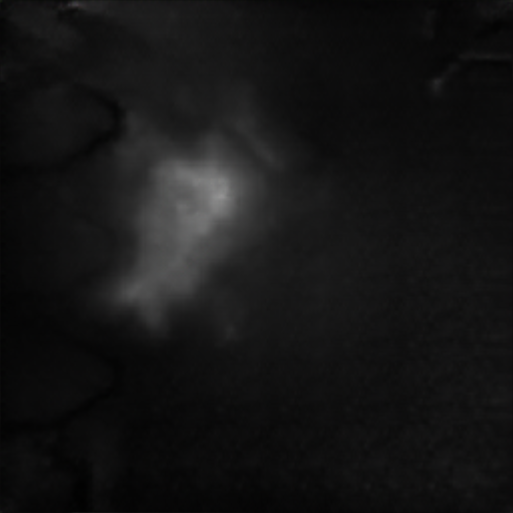
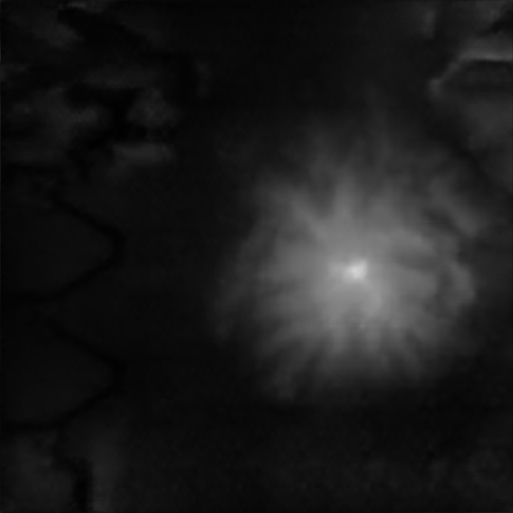
terrain shape pending

diff --git a/TerrainVR/Assets/Script/VRPlayer.cs b/TerrainVR/Assets/Script/VRPlayer.cs
@@ -55,15 +55,22 @@ public class VRPlayer : MonoBehaviour
         Vector3 position, derivative;
         float offset, brushSize;
 
+        List<Vector3> derivatives = new List<Vector3>();
+
+        for (int i = 0; i < s.GetComponent<LineRenderer>().positionCount; i++)
+        {
+            if (i == 0) derivative = s.GetPosition(i + 1) - s.GetPosition(i);
+            else if (i == s.GetComponent<LineRenderer>().positionCount - 1) derivative = s.GetPosition(i) - s.GetPosition(i - 1);
+            else derivative = s.GetPosition(i + 1) - s.GetPosition(i - 1);
+
+            derivatives.Add(derivative.normalized);
+        }
+
         if (s.filled)
         {
             for (int i = 0; i < s.GetComponent<LineRenderer>().positionCount; i++)
             {
                 position = s.GetComponent<Stroke>().GetPosition(i);
-
-                if (i == 0) derivative = s.GetPosition(i + 1) - s.GetPosition(i);
-                else if (i == s.GetComponent<LineRenderer>().positionCount - 1) derivative = s.GetPosition(i) - s.GetPosition(i - 1);
-                else derivative = s.GetPosition(i + 1) - s.GetPosition(i - 1);
 
                 offset = position.y - terrainTool._targetTerrain.transform.position.y;
                 brushSize = Mathf.Abs(offset - terrainTool.terrainOffset) * 2f;
@@ -81,30 +88,22 @@ public class VRPlayer : MonoBehaviour
         {
             position = s.GetPosition(i);
 
-            if (i == 0) derivative = s.GetPosition(i + 1) - s.GetPosition(i);
-            else if (i == s.GetComponent<LineRenderer>().positionCount - 1) derivative = s.GetPosition(i) - s.GetPosition(i - 1);
-            else derivative = s.GetPosition(i + 1) - s.GetPosition(i - 1);
-
             offset = position.y - terrainTool._targetTerrain.transform.position.y;
             brushSize = Mathf.Abs(offset - terrainTool.terrainOffset) * 2f;
 
             if (s.filled)
             {
-                terrainTool.RaiseTerrain(new Vector3(position.x,
-                                                     terrainTool._targetTerrain.transform.position.y,
-                                                     position.z),
-                                                     Mathf.Abs(offset) / 2f, brushSize / 2f,
-                                                     Mathf.Max(s.GetLeftBrushSize(), s.GetRightBrushSize()) / 2f,
-                                                     Mathf.Max(s.GetLeftBrushSize(), s.GetRightBrushSize()) / 2f,
-                                                     derivative);
+                terrainTool.RaiseTerrain(position,
+                                         Mathf.Abs(offset) / 2f, brushSize / 2f,
+                                         Mathf.Max(s.GetLeftBrushSize(), s.GetRightBrushSize()) / 2f,
+                                         Mathf.Max(s.GetLeftBrushSize(), s.GetRightBrushSize()) / 2f,
+                                         derivatives[i], s.GetPosition(0), s.GetPosition(s.GetPositionCount() - 1));
             }
             else
             {
-                terrainTool.RaiseTerrain(new Vector3(position.x,
-                                                     terrainTool._targetTerrain.transform.position.y,
-                                                     position.z),
-                                                     Mathf.Abs(offset), brushSize, s.GetLeftBrushSize(), s.GetRightBrushSize(),
-                                                     derivative);
+                terrainTool.RaiseTerrain(position,
+                                         Mathf.Abs(offset), brushSize, s.GetLeftBrushSize(), s.GetRightBrushSize(),
+                                         derivatives[i], s.GetPosition(0), s.GetPosition(s.GetPositionCount() - 1));
             }
         }
 
@@ -115,47 +114,35 @@ public class VRPlayer : MonoBehaviour
             if (s.GetPosition(i).y > maxHeight) maxHeight = s.GetPosition(i).y;
         }
 
-        Debug.Log(maxHeight);
-
         for (int i = 0; i < s.GetComponent<LineRenderer>().positionCount; i++)
         {
             position = s.GetPosition(i);
-
-            if (i == 0) derivative = s.GetPosition(i + 1) - s.GetPosition(i);
-            else if (i == s.GetComponent<LineRenderer>().positionCount - 1) derivative = s.GetPosition(i) - s.GetPosition(i - 1);
-            else derivative = s.GetPosition(i + 1) - s.GetPosition(i - 1);
-            derivative = Vector3.Normalize(derivative);
 
             offset = position.y - terrainTool._targetTerrain.transform.position.y;
             brushSize = Mathf.Abs(offset - terrainTool.terrainOffset) * 2f;
 
             if (s.filled)
             {
-                terrainTool.PaintStroke(new Vector3(position.x,
-                                                    terrainTool._targetTerrain.transform.position.y,
-                                                    position.z),
-                                                    brushSize, s.GetLeftBrushSize(), s.GetRightBrushSize(),
-                                                    0.6f, 6);
+                terrainTool.PaintStroke(position,
+                                        brushSize, s.GetLeftBrushSize(), s.GetRightBrushSize(),
+                                        0.6f, 6);
             }
             else
             {
-                if (Mathf.Abs(derivative.normalized.y) < 0.15f 
+                if (Mathf.Abs(derivatives[i].y) < 0.2f 
                     && (position.y - terrainTool._targetTerrain.transform.position.y) / (maxHeight - terrainTool._targetTerrain.transform.position.y) > 0.3f)
                 {
-                    terrainTool.PaintStroke(new Vector3(position.x,
-                                                        terrainTool._targetTerrain.transform.position.y,
-                                                        position.z),
-                                                        brushSize, s.GetLeftBrushSize(), s.GetRightBrushSize(),
-                                                        1f, 2);
+                    terrainTool.PaintStroke(position,
+                                            brushSize, s.GetLeftBrushSize(), s.GetRightBrushSize(),
+                                            1f, 2);
                 }
-                else if (Mathf.Abs(derivative.normalized.y) > 0.8f
-                         && (position.y - terrainTool._targetTerrain.transform.position.y) / (maxHeight - terrainTool._targetTerrain.transform.position.y) > 0.3f)
+
+                if (Mathf.Abs(derivatives[i].y) > 0.9f
+                    && (position.y - terrainTool._targetTerrain.transform.position.y) / (maxHeight - terrainTool._targetTerrain.transform.position.y) > 0.3f)
                 {
-                    terrainTool.PaintStroke(new Vector3(position.x,
-                                                        terrainTool._targetTerrain.transform.position.y,
-                                                        position.z),
-                                                        brushSize, s.GetLeftBrushSize(), s.GetRightBrushSize(),
-                                                        0.6f, 2);
+                    terrainTool.PaintStroke(position,
+                                            brushSize, s.GetLeftBrushSize(), s.GetRightBrushSize(),
+                                            0.6f, 2);
                 }
 
                 if (s.GetLeftBrushSize() < 0.5f)
@@ -163,12 +150,10 @@ public class VRPlayer : MonoBehaviour
                     float middlePoint = (position.y - terrainTool._targetTerrain.transform.position.y) * s.GetLeftBrushSize() / 2f;
                     if (middlePoint > 3f)
                     {
-                        Vector3 cliff = position + (Quaternion.AngleAxis(-90, Vector3.up) * derivative.normalized) * middlePoint;
-                        terrainTool.PaintStroke(new Vector3(cliff.x,
-                                                            terrainTool._targetTerrain.transform.position.y,
-                                                            cliff.z),
-                                                            brushSize, s.GetLeftBrushSize(), s.GetRightBrushSize(),
-                                                            0.6f, (int)(middlePoint - 3f));
+                        Vector3 cliff = position + (Quaternion.AngleAxis(-90, Vector3.up) * derivatives[i]) * middlePoint;
+                        terrainTool.PaintStroke(cliff,
+                                                brushSize, s.GetLeftBrushSize(), s.GetRightBrushSize(),
+                                                0.6f, (int)(middlePoint - 3f));
                     }
                 }
 
@@ -177,12 +162,10 @@ public class VRPlayer : MonoBehaviour
                     float middlePoint = (position.y - terrainTool._targetTerrain.transform.position.y) * s.GetRightBrushSize() / 2f;
                     if (middlePoint > 3f)
                     {
-                        Vector3 cliff = position + (Quaternion.AngleAxis(90, Vector3.up) * derivative.normalized) * middlePoint;
-                        terrainTool.PaintStroke(new Vector3(cliff.x,
-                                                            terrainTool._targetTerrain.transform.position.y,
-                                                            cliff.z),
-                                                            brushSize, s.GetLeftBrushSize(), s.GetRightBrushSize(),
-                                                            0.6f, (int)(middlePoint - 3f));
+                        Vector3 cliff = position + (Quaternion.AngleAxis(90, Vector3.up) * derivatives[i]) * middlePoint;
+                        terrainTool.PaintStroke(cliff,
+                                                brushSize, s.GetLeftBrushSize(), s.GetRightBrushSize(),
+                                                0.6f, (int)(middlePoint - 3f));
                     }
                 }
             }

diff --git a/TerrainVR/Assets/Script/TerrainTool.cs b/TerrainVR/Assets/Script/TerrainTool.cs
@@ -70,7 +70,7 @@ public sealed class TerrainTool : MonoBehaviour
         return new Vector2Int(brushWidth, brushHeight);
     }
 
-    public void RaiseTerrain(Vector3 worldPosition, float height, float baseBrushSize, float leftBrushSize, float rightBrushSize, Vector3 derivative)
+    public void RaiseTerrain(Vector3 worldPosition, float height, float baseBrushSize, float leftBrushSize, float rightBrushSize, Vector3 derivative, Vector3 start, Vector3 end)
     {
         int maxBrushSize = (int)Mathf.Max(baseBrushSize * leftBrushSize, baseBrushSize * rightBrushSize);
 
@@ -82,6 +82,19 @@ public sealed class TerrainTool : MonoBehaviour
 
         Vector3 direction = new Vector3(derivative.x, 0f, derivative.z);
         Vector3 deviation = new Vector3(0f, 0f, 0f);
+
+        Vector3 startDirection = (worldPosition - start).normalized;
+        Vector3 endDirection = (worldPosition - end).normalized;
+
+        float startSize = Mathf.Max(leftBrushSize, rightBrushSize);
+        float endSize = startSize;
+
+        if (startDirection.y != 0f)
+        {
+            startSize = Mathf.Sqrt(startDirection.x * startDirection.x + startDirection.z * startDirection.z) / Mathf.Abs(startDirection.y);
+            endSize = Mathf.Sqrt(endDirection.x * endDirection.x + endDirection.z * endDirection.z) / Mathf.Abs(endDirection.y);
+        }
+
         float angle = 0f;
 
         for (var y = 0; y < brushSize.y; y++)
@@ -101,18 +114,26 @@ public sealed class TerrainTool : MonoBehaviour
 
                 float distance = Mathf.Sqrt(Mathf.Pow((float)x - (float)brushSize.x / 2f, 2f) +
                                             Mathf.Pow((float)y - (float)brushSize.y / 2f, 2f));
-                distance /= (float)brushSize.x / 2f;
-                distance = Mathf.Clamp(distance, 0f, 1f);
-                distance = 1f - distance;
+
+                float adjustedSize;
 
                 if (leftBrushSize < rightBrushSize)
                 {
-                    distance = Mathf.Lerp(distance * leftBrushSize / rightBrushSize, distance, angle);
+                    adjustedSize = Mathf.Lerp(leftBrushSize * (float)brushSize.x, (float)brushSize.x, angle);
                 }
                 else
                 {
-                    distance = Mathf.Lerp(distance, distance * rightBrushSize / leftBrushSize, angle);
+                    adjustedSize = Mathf.Lerp((float)brushSize.x, rightBrushSize * (float)brushSize.x, angle);
                 }
+
+                /*if (Mathf.Min(startSize, endSize) < Mathf.Max(leftBrushSize, rightBrushSize))
+                {
+                    adjustedSize *= Mathf.Min(startSize, endSize);
+                }*/
+
+                distance /= adjustedSize / 2f;
+                distance = Mathf.Clamp(distance, 0f, 1f);
+                distance = 1f - distance;
 
                 if (virtualHeights[y + brushPosition.y, x + brushPosition.x] - terrainOffset / terrainData.size.y < distance * (height - terrainOffset) / terrainData.size.y)
                     virtualHeights[y + brushPosition.y, x + brushPosition.x] = distance * (height - terrainOffset) / terrainData.size.y + terrainOffset / terrainData.size.y;
@@ -216,6 +237,7 @@ public sealed class TerrainTool : MonoBehaviour
         modifier.alphas = alphas;
 
         modifier.ModifyTerrain();
+        //GetTerrainData().SetHeights(0, 0, virtualHeights);
     }
     
 
